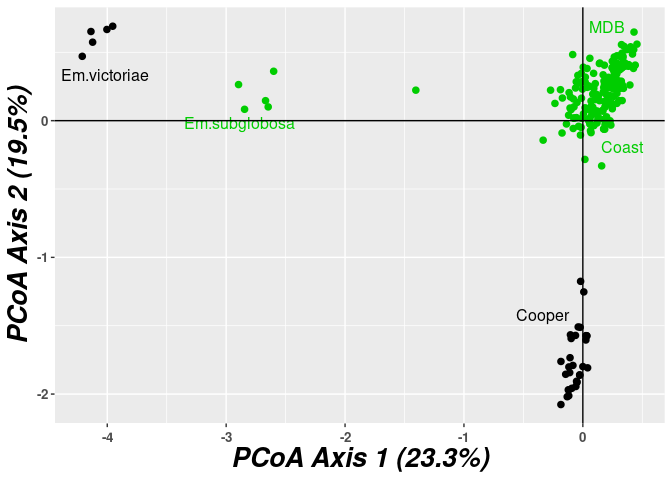
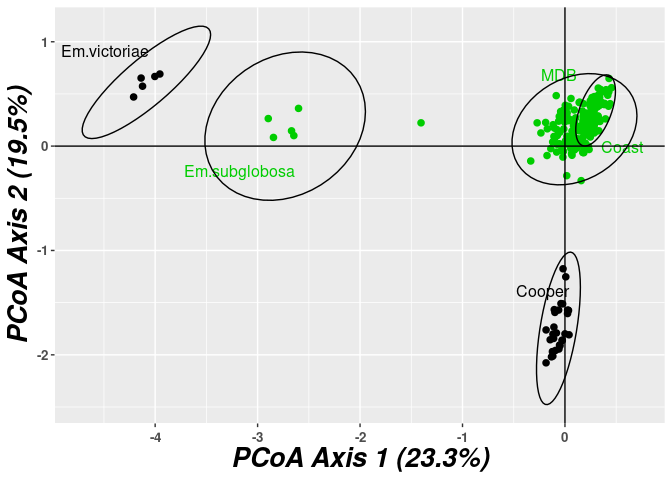
update

diff --git a/README.md b/README.md
@@ -51,148 +51,50 @@ gl.pcoa.plot(pcoa, gl, ellipse = TRUE, p = 0.99, labels = "pop", hadjust = 1.5, 
 
 ## construct the ggbuilder object
 xb <- gl.pcoa.plot.builder(pcoa, gl, ellipse = TRUE, p = 0.99, labels = "pop", hadjust = 1.5, vadjust = 1)
-xb <- gl.pcoa.plot.builder(pcoa, gl, labels = "pop", hadjust = 1.5, vadjust = 1)
 
 class(xb)
 #> [1] "ggbuilder"
 
 ## the contents of that object
-str(xb)
-#> List of 9
+str(xb, max.level = 2)
+#> List of 10
 #>  $ init         :List of 1
 #>   ..$ :List of 2
-#>   .. ..$ plotfun : chr "ggplot2::ggplot"
-#>   .. ..$ plotargs:List of 2
-#>   .. .. ..$ data   :'data.frame':    250 obs. of  4 variables:
-#>   .. .. .. ..$ PCoAx: num [1:250] 0.2539 0.0613 0.2653 0.4017 -0.1198 ...
-#>   .. .. .. ..$ PCoAy: num [1:250] 0.2858 -0.0249 0.3407 0.5404 0.0397 ...
-#>   .. .. .. ..$ ind  : Factor w/ 250 levels "AA000302","AA000303",..: 56 226 183 89 66 80 144 145 146 143 ...
-#>   .. .. .. ..$ pop  : Factor w/ 5 levels "Coast","Cooper",..: 3 1 3 3 1 2 1 1 1 1 ...
-#>   .. .. ..$ mapping:List of 4
-#>   .. .. .. ..$ group : language ~pop
-#>   .. .. .. .. ..- attr(*, ".Environment")=<environment: 0x55c0605b5bc0> 
-#>   .. .. .. ..$ colour: language ~pop
-#>   .. .. .. .. ..- attr(*, ".Environment")=<environment: 0x55c0605b5bc0> 
-#>   .. .. .. ..$ x     : language ~PCoAx
-#>   .. .. .. .. ..- attr(*, ".Environment")=<environment: 0x55c0605b5bc0> 
-#>   .. .. .. ..$ y     : language ~PCoAy
-#>   .. .. .. .. ..- attr(*, ".Environment")=<environment: 0x55c0605b5bc0> 
-#>   .. .. .. ..- attr(*, "class")= chr "uneval"
 #>   .. ..- attr(*, "class")= chr "ggplotter"
 #>  $ points       :List of 1
 #>   ..$ :List of 2
-#>   .. ..$ plotfun : chr "ggplot2::geom_point"
-#>   .. ..$ plotargs:List of 1
-#>   .. .. ..$ size: num 2
 #>   .. ..- attr(*, "class")= chr "ggplotter"
 #>  $ labels       :List of 1
 #>   ..$ :List of 2
-#>   .. ..$ plotfun : chr "directlabels::geom_dl"
-#>   .. ..$ plotargs:List of 2
-#>   .. .. ..$ mapping:List of 1
-#>   .. .. .. ..$ label: language ~pop
-#>   .. .. .. .. ..- attr(*, ".Environment")=<environment: 0x55c0605b5bc0> 
-#>   .. .. .. ..- attr(*, "class")= chr "uneval"
-#>   .. .. ..$ method : chr "smart.grid"
 #>   .. ..- attr(*, "class")= chr "ggplotter"
 #>  $ theme        :List of 1
 #>   ..$ :List of 2
-#>   .. ..$ plotfun : chr "ggplot2::theme"
-#>   .. ..$ plotargs:List of 6
-#>   .. .. ..$ axis.title     :List of 11
-#>   .. .. .. ..$ family       : NULL
-#>   .. .. .. ..$ face         : chr "bold.italic"
-#>   .. .. .. ..$ colour       : chr "black"
-#>   .. .. .. ..$ size         : chr "20"
-#>   .. .. .. ..$ hjust        : NULL
-#>   .. .. .. ..$ vjust        : NULL
-#>   .. .. .. ..$ angle        : NULL
-#>   .. .. .. ..$ lineheight   : NULL
-#>   .. .. .. ..$ margin       : NULL
-#>   .. .. .. ..$ debug        : NULL
-#>   .. .. .. ..$ inherit.blank: logi FALSE
-#>   .. .. .. ..- attr(*, "class")= chr [1:2] "element_text" "element"
-#>   .. .. ..$ axis.text.x    :List of 11
-#>   .. .. .. ..$ family       : NULL
-#>   .. .. .. ..$ face         : chr "bold"
-#>   .. .. .. ..$ colour       : NULL
-#>   .. .. .. ..$ size         : num 10
-#>   .. .. .. ..$ hjust        : NULL
-#>   .. .. .. ..$ vjust        : num 0.5
-#>   .. .. .. ..$ angle        : num 0
-#>   .. .. .. ..$ lineheight   : NULL
-#>   .. .. .. ..$ margin       : NULL
-#>   .. .. .. ..$ debug        : NULL
-#>   .. .. .. ..$ inherit.blank: logi FALSE
-#>   .. .. .. ..- attr(*, "class")= chr [1:2] "element_text" "element"
-#>   .. .. ..$ axis.text.y    :List of 11
-#>   .. .. .. ..$ family       : NULL
-#>   .. .. .. ..$ face         : chr "bold"
-#>   .. .. .. ..$ colour       : NULL
-#>   .. .. .. ..$ size         : num 10
-#>   .. .. .. ..$ hjust        : NULL
-#>   .. .. .. ..$ vjust        : num 0.5
-#>   .. .. .. ..$ angle        : num 0
-#>   .. .. .. ..$ lineheight   : NULL
-#>   .. .. .. ..$ margin       : NULL
-#>   .. .. .. ..$ debug        : NULL
-#>   .. .. .. ..$ inherit.blank: logi FALSE
-#>   .. .. .. ..- attr(*, "class")= chr [1:2] "element_text" "element"
-#>   .. .. ..$ legend.title   :List of 11
-#>   .. .. .. ..$ family       : NULL
-#>   .. .. .. ..$ face         : chr "bold"
-#>   .. .. .. ..$ colour       : chr "black"
-#>   .. .. .. ..$ size         : num 18
-#>   .. .. .. ..$ hjust        : NULL
-#>   .. .. .. ..$ vjust        : NULL
-#>   .. .. .. ..$ angle        : NULL
-#>   .. .. .. ..$ lineheight   : NULL
-#>   .. .. .. ..$ margin       : NULL
-#>   .. .. .. ..$ debug        : NULL
-#>   .. .. .. ..$ inherit.blank: logi FALSE
-#>   .. .. .. ..- attr(*, "class")= chr [1:2] "element_text" "element"
-#>   .. .. ..$ legend.text    :List of 11
-#>   .. .. .. ..$ family       : NULL
-#>   .. .. .. ..$ face         : chr "bold"
-#>   .. .. .. ..$ colour       : chr "black"
-#>   .. .. .. ..$ size         : num 16
-#>   .. .. .. ..$ hjust        : NULL
-#>   .. .. .. ..$ vjust        : NULL
-#>   .. .. .. ..$ angle        : NULL
-#>   .. .. .. ..$ lineheight   : NULL
-#>   .. .. .. ..$ margin       : NULL
-#>   .. .. .. ..$ debug        : NULL
-#>   .. .. .. ..$ inherit.blank: logi FALSE
-#>   .. .. .. ..- attr(*, "class")= chr [1:2] "element_text" "element"
-#>   .. .. ..$ legend.position: chr "none"
 #>   .. ..- attr(*, "class")= chr "ggplotter"
 #>  $ axis_labels  :List of 1
 #>   ..$ :List of 2
-#>   .. ..$ plotfun : chr "ggplot2::labs"
-#>   .. ..$ plotargs:List of 2
-#>   .. .. ..$ x: chr "PCoA Axis 1 (23.3%)"
-#>   .. .. ..$ y: chr "PCoA Axis 2 (19.5%)"
 #>   .. ..- attr(*, "class")= chr "ggplotter"
 #>  $ hline        :List of 1
 #>   ..$ :List of 2
-#>   .. ..$ plotfun : chr "ggplot2::geom_hline"
-#>   .. ..$ plotargs:List of 1
-#>   .. .. ..$ yintercept: num 0
 #>   .. ..- attr(*, "class")= chr "ggplotter"
 #>  $ vline        :List of 1
 #>   ..$ :List of 2
-#>   .. ..$ plotfun : chr "ggplot2::geom_vline"
-#>   .. ..$ plotargs:List of 1
-#>   .. .. ..$ xintercept: num 0
 #>   .. ..- attr(*, "class")= chr "ggplotter"
 #>  $ scale_color  :List of 1
 #>   ..$ :List of 2
-#>   .. ..$ plotfun : chr "ggplot2::scale_color_manual"
-#>   .. ..$ plotargs:List of 1
-#>   .. .. ..$ values: num [1:250] 3 1 3 3 1 2 1 1 1 1 ...
 #>   .. ..- attr(*, "class")= chr "ggplotter"
-#>  $ plot_sequence: chr [1:8] "init" "points" "labels" "theme" ...
+#>  $ ellipse      :List of 1
+#>   ..$ :List of 2
+#>   .. ..- attr(*, "class")= chr "ggplotter"
+#>  $ plot_sequence: chr [1:9] "init" "points" "labels" "theme" ...
 #>  - attr(*, "class")= chr "ggbuilder"
+
+str(xb$points)
+#> List of 1
+#>  $ :List of 2
+#>   ..$ plotfun : chr "ggplot2::geom_point"
+#>   ..$ plotargs:List of 1
+#>   .. ..$ size: num 2
+#>   ..- attr(*, "class")= chr "ggplotter"
 
 ## plotting that object produces a ggplot object
 xp <- plot(xb)
